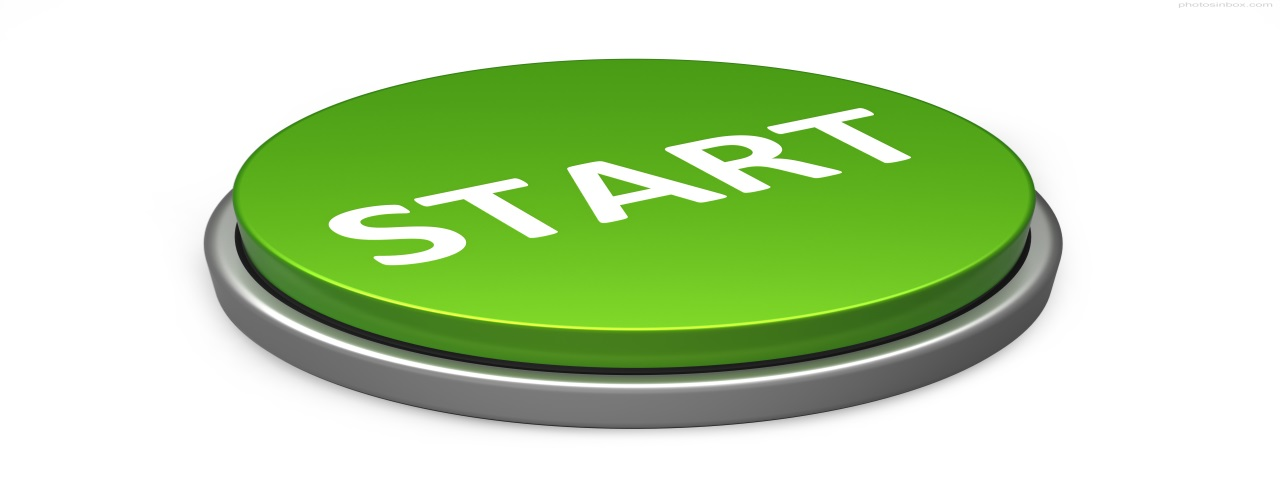
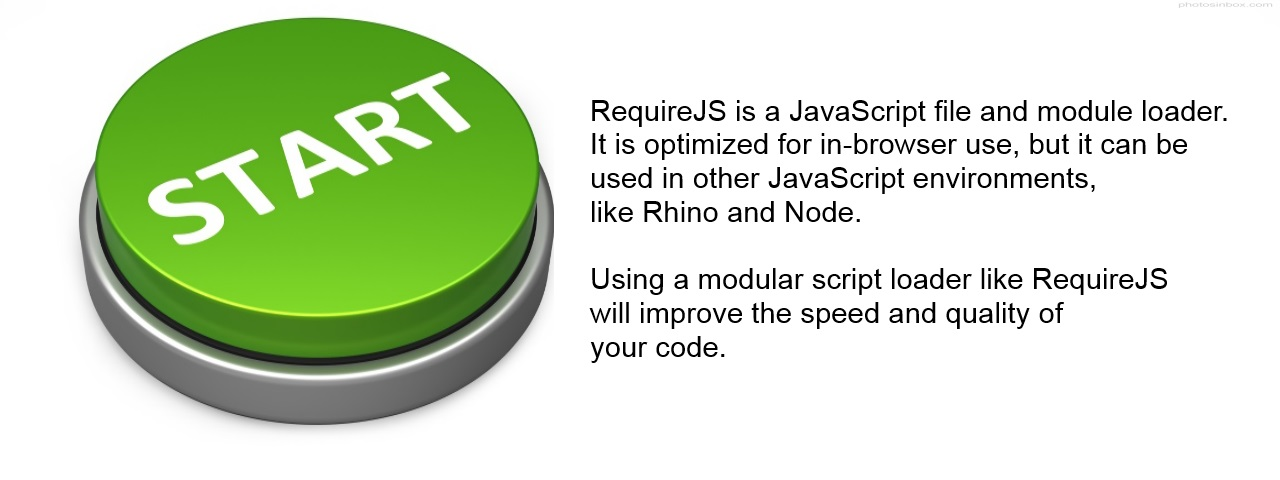
iPhone + tablet design

diff --git a/index.html b/index.html
@@ -17,10 +17,7 @@
 
 			#intro p,
 			#intro h1 {
-				font-size: 19px;
 				line-height: 28px;
-				color: green;
-				letter-spacing: 2px;
 				padding: 0 0 28px 0;
 			}
 
@@ -30,7 +27,6 @@
 				}
 
 				#intro p a {
-					color: green;
 					text-decoration: underline;
 				}
 
@@ -65,13 +61,9 @@
 			background-color: #f5f5f5;
 		}
 
-		/* Lastly, apply responsive CSS fixes as necessary */
-		@media (max-width: 767px) {
-			#footer {
-				margin-left: -20px;
-				margin-right: -20px;
-				padding-left: 20px;
-				padding-right: 20px;
+		@media screen and (min-width: 768px) {
+			main .carousel-indicators {
+				bottom: 0px;
 			}
 		}
 	</style>
@@ -118,18 +110,9 @@
 				</div>
 			</div>
 		</header>
+
 		<main class="bs-masthead">
 			<div class="container">
-				<h1>Requirejs</h1>
-
-				<br />
-				<p class="lead">
-					RequireJS is a JavaScript file and module loader. It is optimized for
-					in-browser use, but it can be used in other JavaScript environments,
-					like Rhino and <a href="node.html">Node</a>. Using
-					a modular script loader like RequireJS will improve the speed and
-					quality of your code.
-				</p>
 				<div class="visible-lg visible-md">
 					<div id="carousel-example-generic" class="carousel slide" data-ride="carousel" data-interval="100000">
 						<ol class="carousel-indicators">
@@ -143,22 +126,22 @@
 									<img src="images/start-button.jpg" />
 								</a>
 								<div class="carousel-caption">
-									<p>Start</p>
-									<a href="#">Test</a>
+									<p><a href="#">Start</a></p>
+									<p>A quick guid how to use requirejs</p>
 								</div>
 							</div>
 							<div class="item">
 								<img src="images/api.png" />
 								<div class="carousel-caption">
-									<p>API</p>
-									<a href="#">Test</a>
+									<p><a href="#">API</a></p>
+									<p>Learn about the advanced functions of requirejs how they will improve the way you write JavaScript code</p>
 								</div>
 							</div>
 							<div class="item">
 								<img src="images/optimization.jpg" />
 								<div class="carousel-caption">
-									<p>Optimization</p>
-									<a href="#">Test</a>
+									<p><a href="#">Optimization</a></p>
+									<p>Optimize your code for minmimal size and faster user experience</p>
 								</div>
 							</div>
 						</div>
@@ -174,8 +157,6 @@
 
 				<div class="hidden-lg hidden-md">
 					<div id="intro" class="mono">
-						<p>/* ---</p>
-
 						<p>
 							RequireJS is a JavaScript file and module loader. It is optimized for
 							in-browser use, but it can be used in other JavaScript environments,
@@ -193,8 +174,6 @@
 						</p>
 
 						<p><a href="docs/start.html">Get started</a> then check out the <a href="docs/api.html">API</a>.</p>
-
-						<p>--- */</p>
 					</div>
 				</div>
 			</div>
